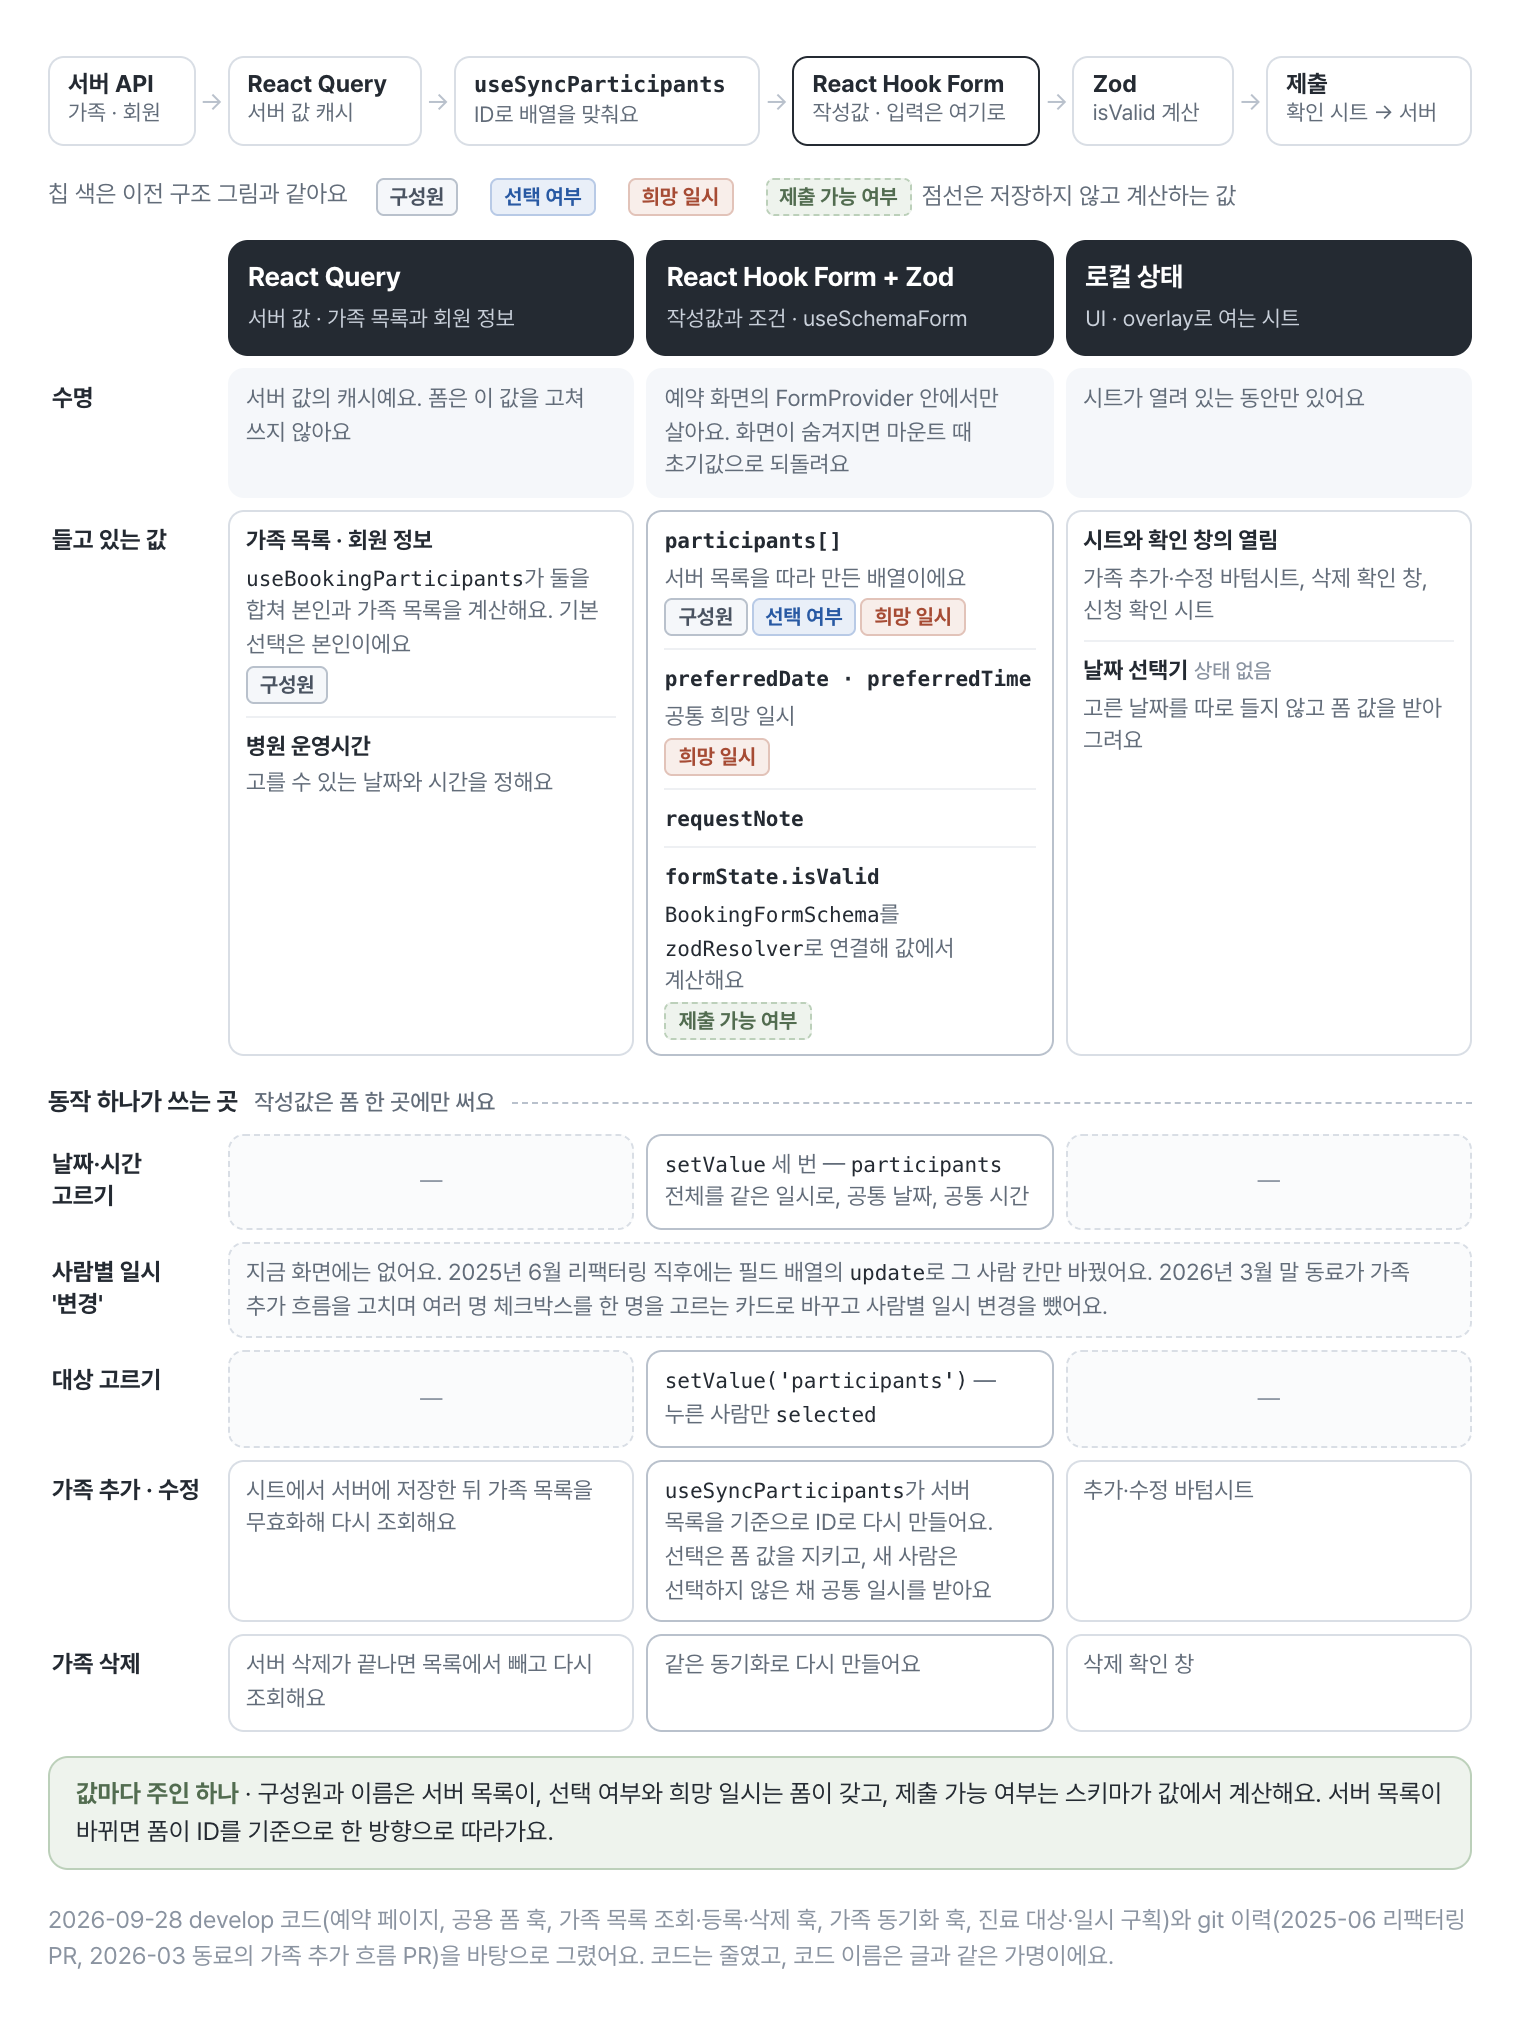
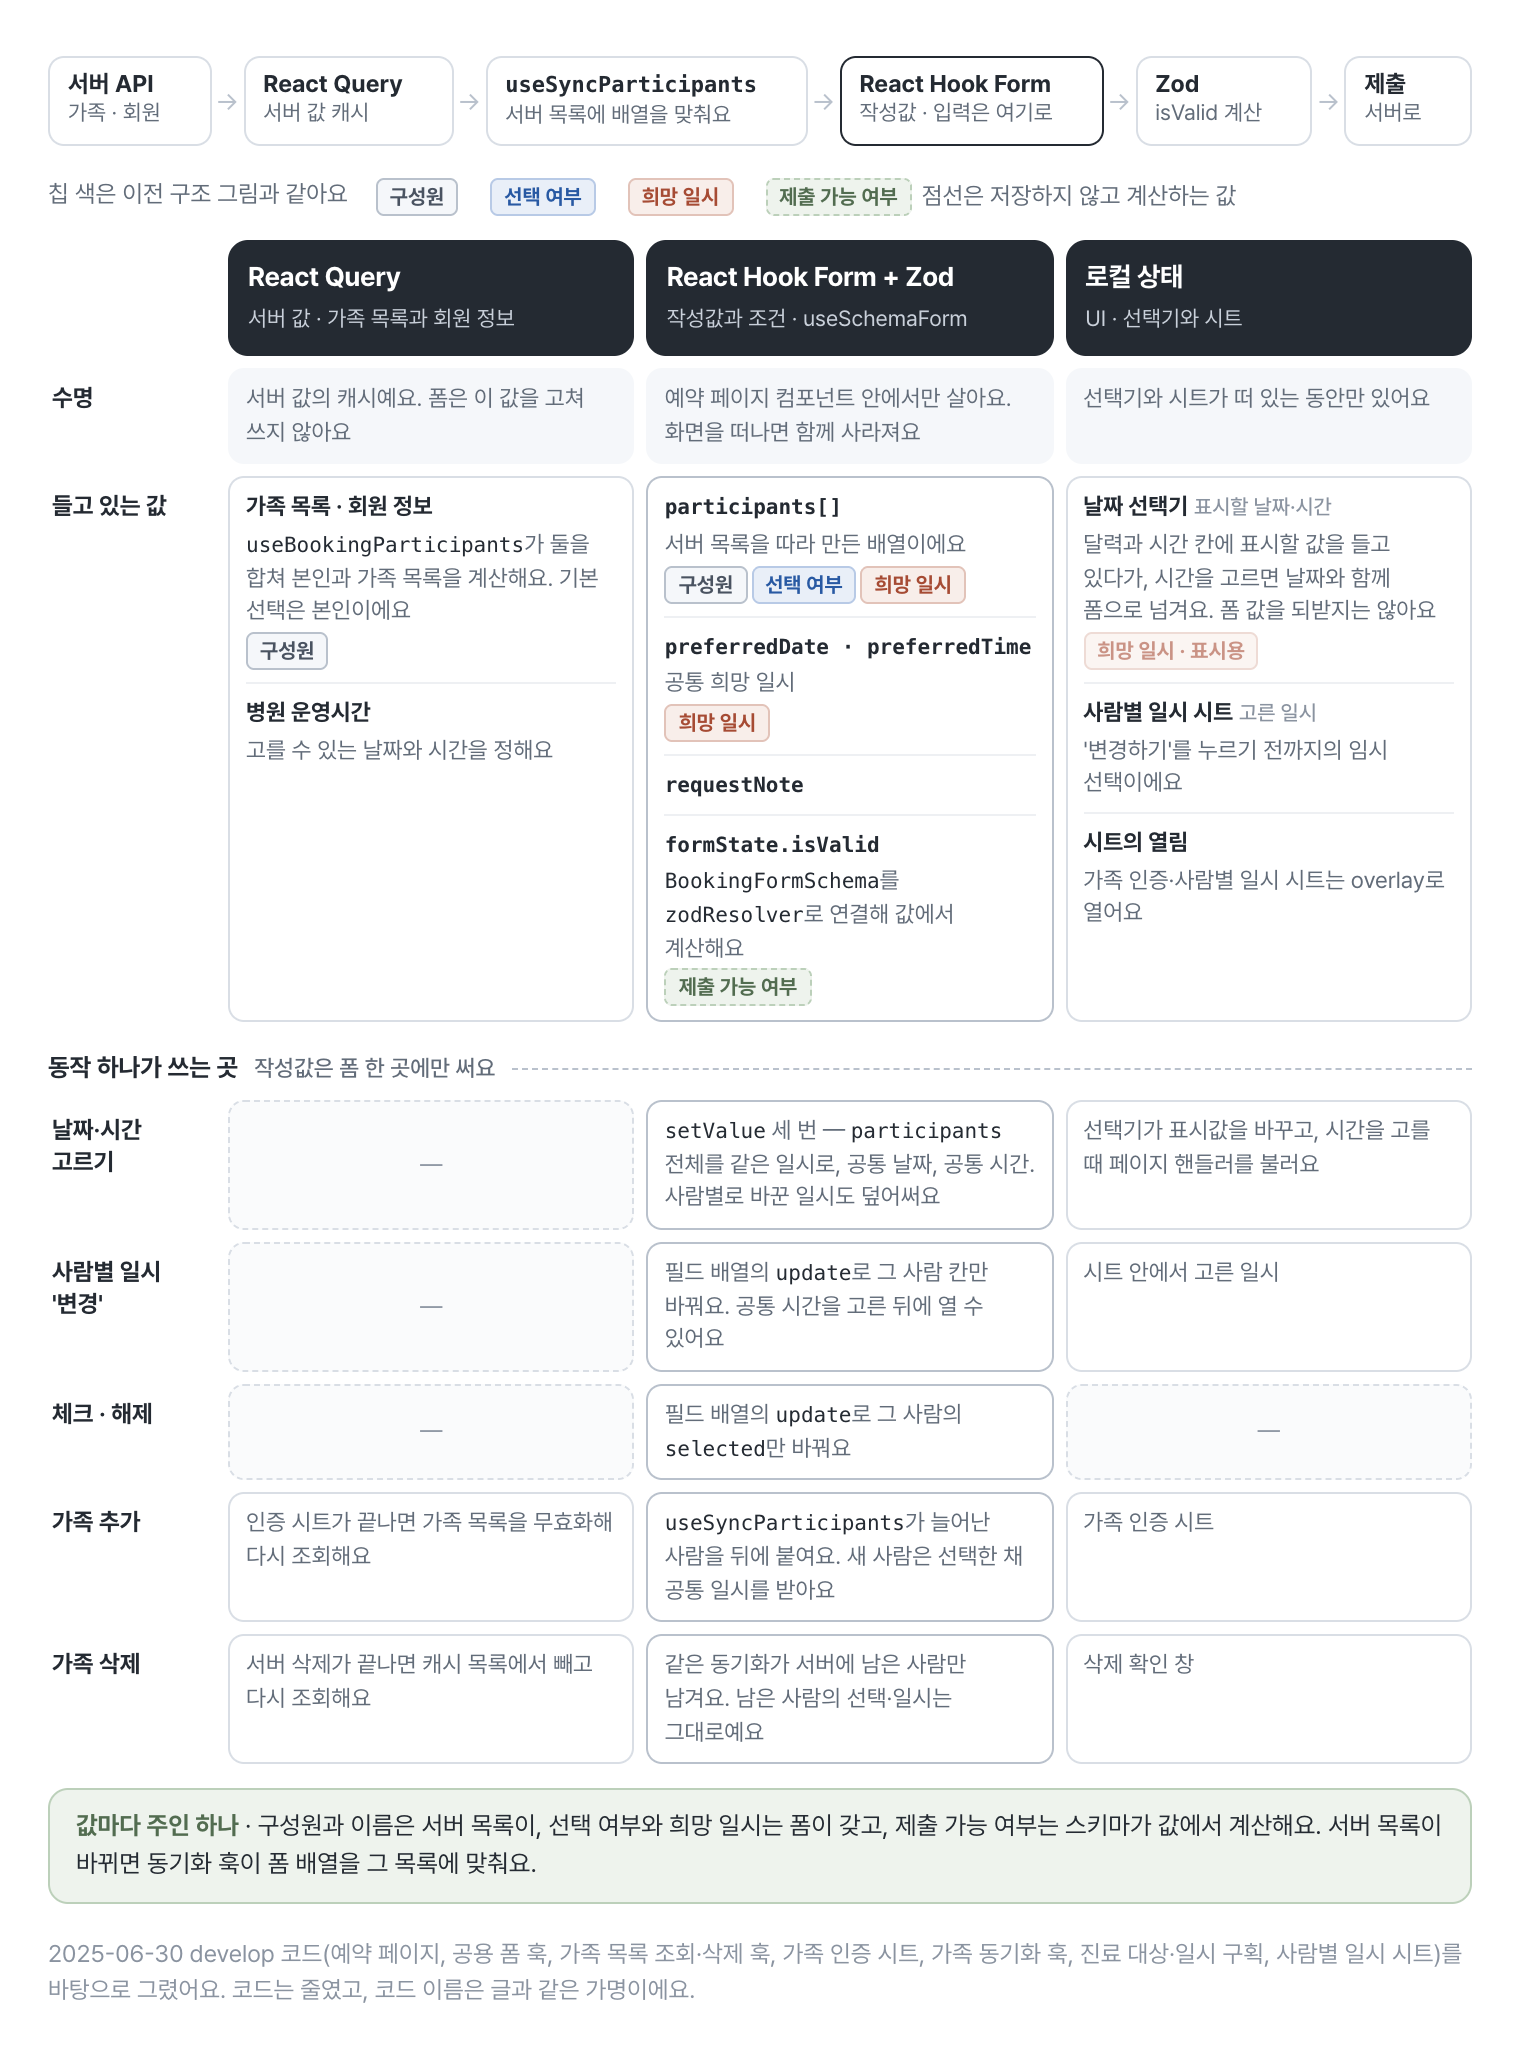
docs(blog): 예약 폼 리팩터링 후 구조 그림을 2025-06-30 기준으로 맞춘다

diff --git a/blog/assets/figures/reservation-form/src/03-after-single-owner.html b/blog/assets/figures/reservation-form/src/03-after-single-owner.html
@@ -11,6 +11,7 @@
   .v.date { color: var(--coral); background: var(--coral-soft); border-color: #e2c3b9; }
   .v.ok { color: var(--sage); background: var(--sage-soft); border-color: #bcd0ba; }
   .v.calc { border-style: dashed; }
+  .v.view { opacity: 0.6; }
 
   /* 흐름 띠 */
   .flow { display: flex; align-items: stretch; gap: 0; margin-bottom: 14px; }
@@ -50,13 +51,13 @@
   <div class="fa">→</div>
   <div class="fb"><b>React Query</b>서버 값 캐시</div>
   <div class="fa">→</div>
-  <div class="fb"><b><code>useSyncParticipants</code></b>ID로 배열을 맞춰요</div>
+  <div class="fb"><b><code>useSyncParticipants</code></b>서버 목록에 배열을 맞춰요</div>
   <div class="fa">→</div>
   <div class="fb form"><b>React Hook Form</b>작성값 · 입력은 여기로</div>
   <div class="fa">→</div>
   <div class="fb"><b>Zod</b>isValid 계산</div>
   <div class="fa">→</div>
-  <div class="fb"><b>제출</b>확인 시트 → 서버</div>
+  <div class="fb"><b>제출</b>서버로</div>
 </div>
 
 <div class="legend">
@@ -71,12 +72,12 @@
   <div></div>
   <div class="head"><b>React Query</b><span>서버 값 · 가족 목록과 회원 정보</span></div>
   <div class="head"><b>React Hook Form + Zod</b><span>작성값과 조건 · useSchemaForm</span></div>
-  <div class="head"><b>로컬 상태</b><span>UI · overlay로 여는 시트</span></div>
+  <div class="head"><b>로컬 상태</b><span>UI · 선택기와 시트</span></div>
 
   <div class="lab">수명</div>
   <div class="c life">서버 값의 캐시예요. 폼은 이 값을 고쳐 쓰지 않아요</div>
-  <div class="c life">예약 화면의 FormProvider 안에서만 살아요. 화면이 숨겨지면 마운트 때 초기값으로 되돌려요</div>
-  <div class="c life">시트가 열려 있는 동안만 있어요</div>
+  <div class="c life">예약 페이지 컴포넌트 안에서만 살아요. 화면을 떠나면 함께 사라져요</div>
+  <div class="c life">선택기와 시트가 떠 있는 동안만 있어요</div>
 
   <div class="lab">들고 있는 값</div>
   <div class="c">
@@ -112,12 +113,17 @@
   </div>
   <div class="c">
     <div class="item">
-      <div class="t">시트와 확인 창의 열림</div>
-      <p>가족 추가·수정 바텀시트, 삭제 확인 창, 신청 확인 시트</p>
+      <div class="t">날짜 선택기<em>표시할 날짜·시간</em></div>
+      <p>달력과 시간 칸에 표시할 값을 들고 있다가, 시간을 고르면 날짜와 함께 폼으로 넘겨요. 폼 값을 되받지는 않아요</p>
+      <span class="v date view">희망 일시 · 표시용</span>
     </div>
     <div class="item">
-      <div class="t">날짜 선택기<em>상태 없음</em></div>
-      <p>고른 날짜를 따로 들지 않고 폼 값을 받아 그려요</p>
+      <div class="t">사람별 일시 시트<em>고른 일시</em></div>
+      <p>'변경하기'를 누르기 전까지의 임시 선택이에요</p>
+    </div>
+    <div class="item">
+      <div class="t">시트의 열림</div>
+      <p>가족 인증·사람별 일시 시트는 overlay로 열어요</p>
     </div>
   </div>
 
@@ -125,29 +131,31 @@
 
   <div class="lab">날짜·시간<br>고르기</div>
   <div class="c none">—</div>
-  <div class="c own"><code>setValue</code> 세 번 — <code>participants</code> 전체를 같은 일시로, 공통 날짜, 공통 시간</div>
-  <div class="c none">—</div>
+  <div class="c own"><code>setValue</code> 세 번 — <code>participants</code> 전체를 같은 일시로, 공통 날짜, 공통 시간. 사람별로 바꾼 일시도 덮어써요</div>
+  <div class="c">선택기가 표시값을 바꾸고, 시간을 고를 때 페이지 핸들러를 불러요</div>
 
   <div class="lab">사람별 일시<br>'변경'</div>
-  <div class="c span">지금 화면에는 없어요. 2025년 6월 리팩터링 직후에는 필드 배열의 <code>update</code>로 그 사람 칸만 바꿨어요. 2026년 3월 말 동료가 가족 추가 흐름을 고치며 여러 명 체크박스를 한 명을 고르는 카드로 바꾸고 사람별 일시 변경을 뺐어요.</div>
-
-  <div class="lab">대상 고르기</div>
   <div class="c none">—</div>
-  <div class="c own"><code>setValue('participants')</code> — 누른 사람만 <code>selected</code></div>
+  <div class="c own">필드 배열의 <code>update</code>로 그 사람 칸만 바꿔요. 공통 시간을 고른 뒤에 열 수 있어요</div>
+  <div class="c">시트 안에서 고른 일시</div>
+
+  <div class="lab">체크 · 해제</div>
+  <div class="c none">—</div>
+  <div class="c own">필드 배열의 <code>update</code>로 그 사람의 <code>selected</code>만 바꿔요</div>
   <div class="c none">—</div>
 
-  <div class="lab">가족 추가 · 수정</div>
-  <div class="c">시트에서 서버에 저장한 뒤 가족 목록을 무효화해 다시 조회해요</div>
-  <div class="c own"><code>useSyncParticipants</code>가 서버 목록을 기준으로 ID로 다시 만들어요. 선택은 폼 값을 지키고, 새 사람은 선택하지 않은 채 공통 일시를 받아요</div>
-  <div class="c">추가·수정 바텀시트</div>
+  <div class="lab">가족 추가</div>
+  <div class="c">인증 시트가 끝나면 가족 목록을 무효화해 다시 조회해요</div>
+  <div class="c own"><code>useSyncParticipants</code>가 늘어난 사람을 뒤에 붙여요. 새 사람은 선택한 채 공통 일시를 받아요</div>
+  <div class="c">가족 인증 시트</div>
 
   <div class="lab">가족 삭제</div>
-  <div class="c">서버 삭제가 끝나면 목록에서 빼고 다시 조회해요</div>
-  <div class="c own">같은 동기화로 다시 만들어요</div>
+  <div class="c">서버 삭제가 끝나면 캐시 목록에서 빼고 다시 조회해요</div>
+  <div class="c own">같은 동기화가 서버에 남은 사람만 남겨요. 남은 사람의 선택·일시는 그대로예요</div>
   <div class="c">삭제 확인 창</div>
 </div>
 
-<div class="sum"><b>값마다 주인 하나</b> · 구성원과 이름은 서버 목록이, 선택 여부와 희망 일시는 폼이 갖고, 제출 가능 여부는 스키마가 값에서 계산해요. 서버 목록이 바뀌면 폼이 ID를 기준으로 한 방향으로 따라가요.</div>
+<div class="sum"><b>값마다 주인 하나</b> · 구성원과 이름은 서버 목록이, 선택 여부와 희망 일시는 폼이 갖고, 제출 가능 여부는 스키마가 값에서 계산해요. 서버 목록이 바뀌면 동기화 훅이 폼 배열을 그 목록에 맞춰요.</div>
 
-<p class="foot">2026-09-28 develop 코드(예약 페이지, 공용 폼 훅, 가족 목록 조회·등록·삭제 훅, 가족 동기화 훅, 진료 대상·일시 구획)와 git 이력(2025-06 리팩터링 PR, 2026-03 동료의 가족 추가 흐름 PR)을 바탕으로 그렸어요. 코드는 줄였고, 코드 이름은 글과 같은 가명이에요.</p>
+<p class="foot">2025-06-30 develop 코드(예약 페이지, 공용 폼 훅, 가족 목록 조회·삭제 훅, 가족 인증 시트, 가족 동기화 훅, 진료 대상·일시 구획, 사람별 일시 시트)를 바탕으로 그렸어요. 코드는 줄였고, 코드 이름은 글과 같은 가명이에요.</p>
 </body></html>
